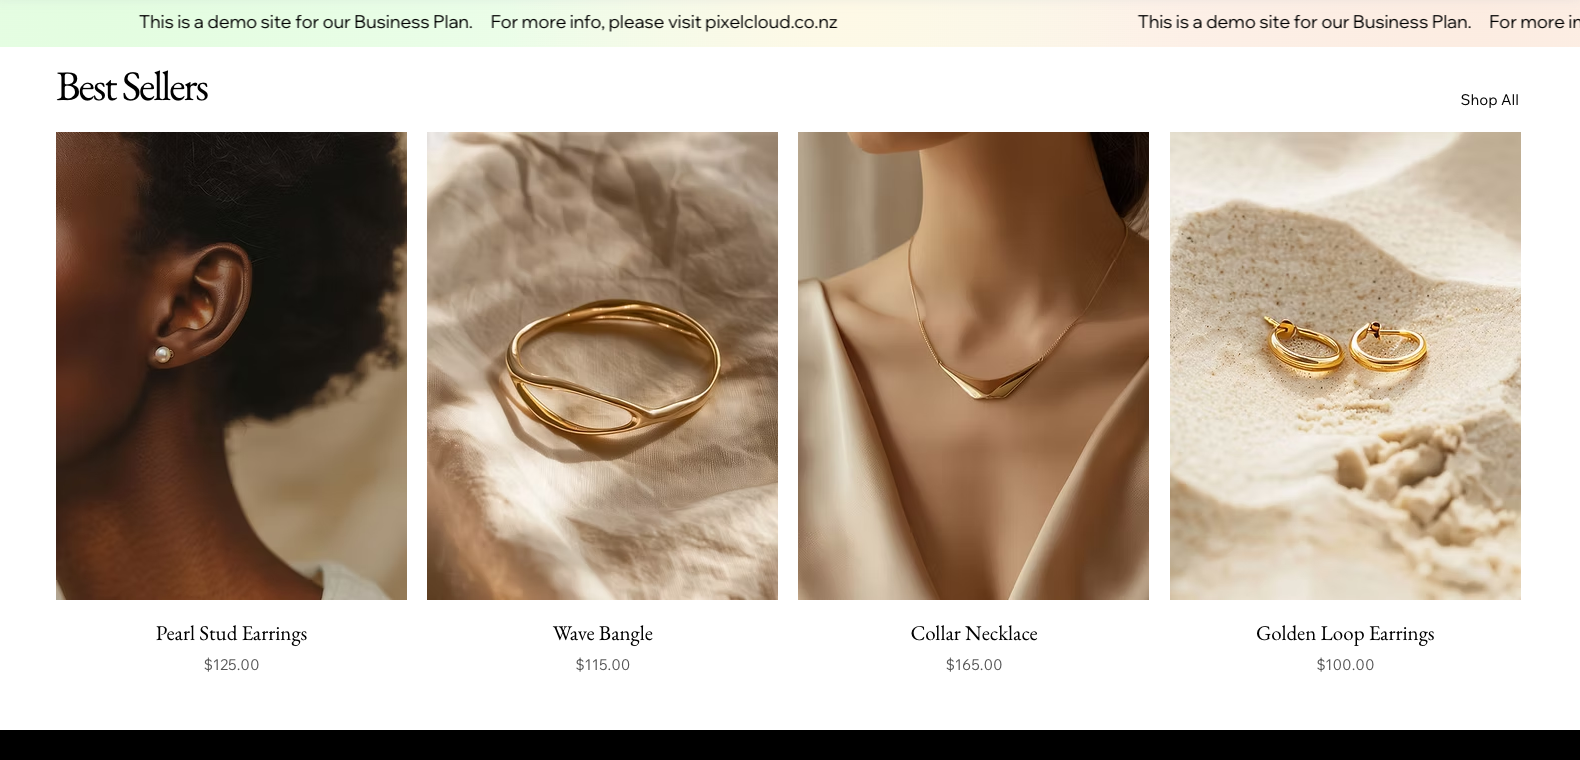
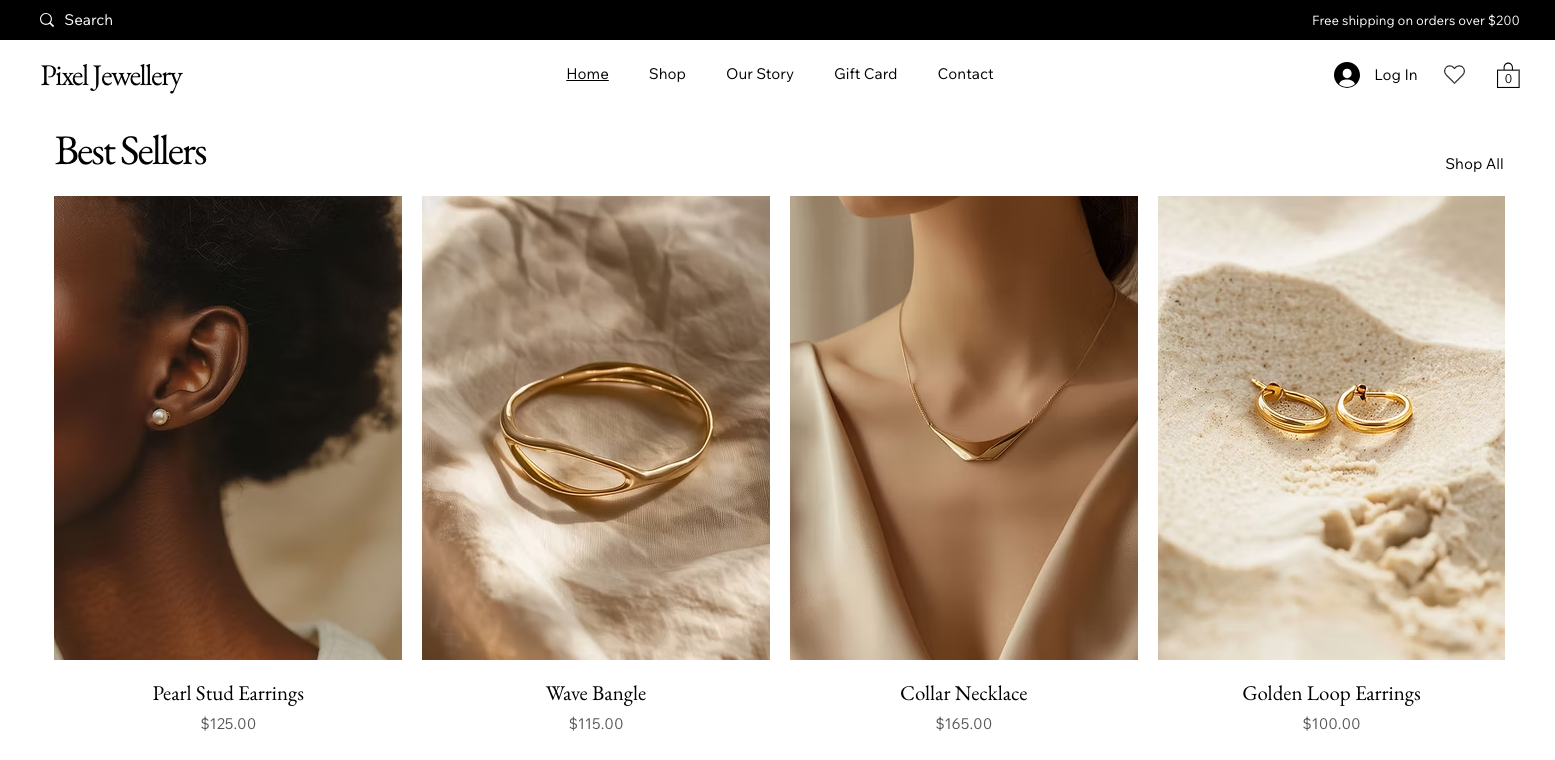
1. Improved UI 2. Updated cover image.

diff --git a/src/pages/HomePage.jsx b/src/pages/HomePage.jsx
@@ -49,7 +49,7 @@ const HomePage = () => {
             <Spinner size="xl" />
           </Box>
         )}
-        {projects.length === 0 && (
+        {projects.length === 0 && !loading && (
           <Text
             fontSize={"xl"}
             fontWeight={"bold"}
